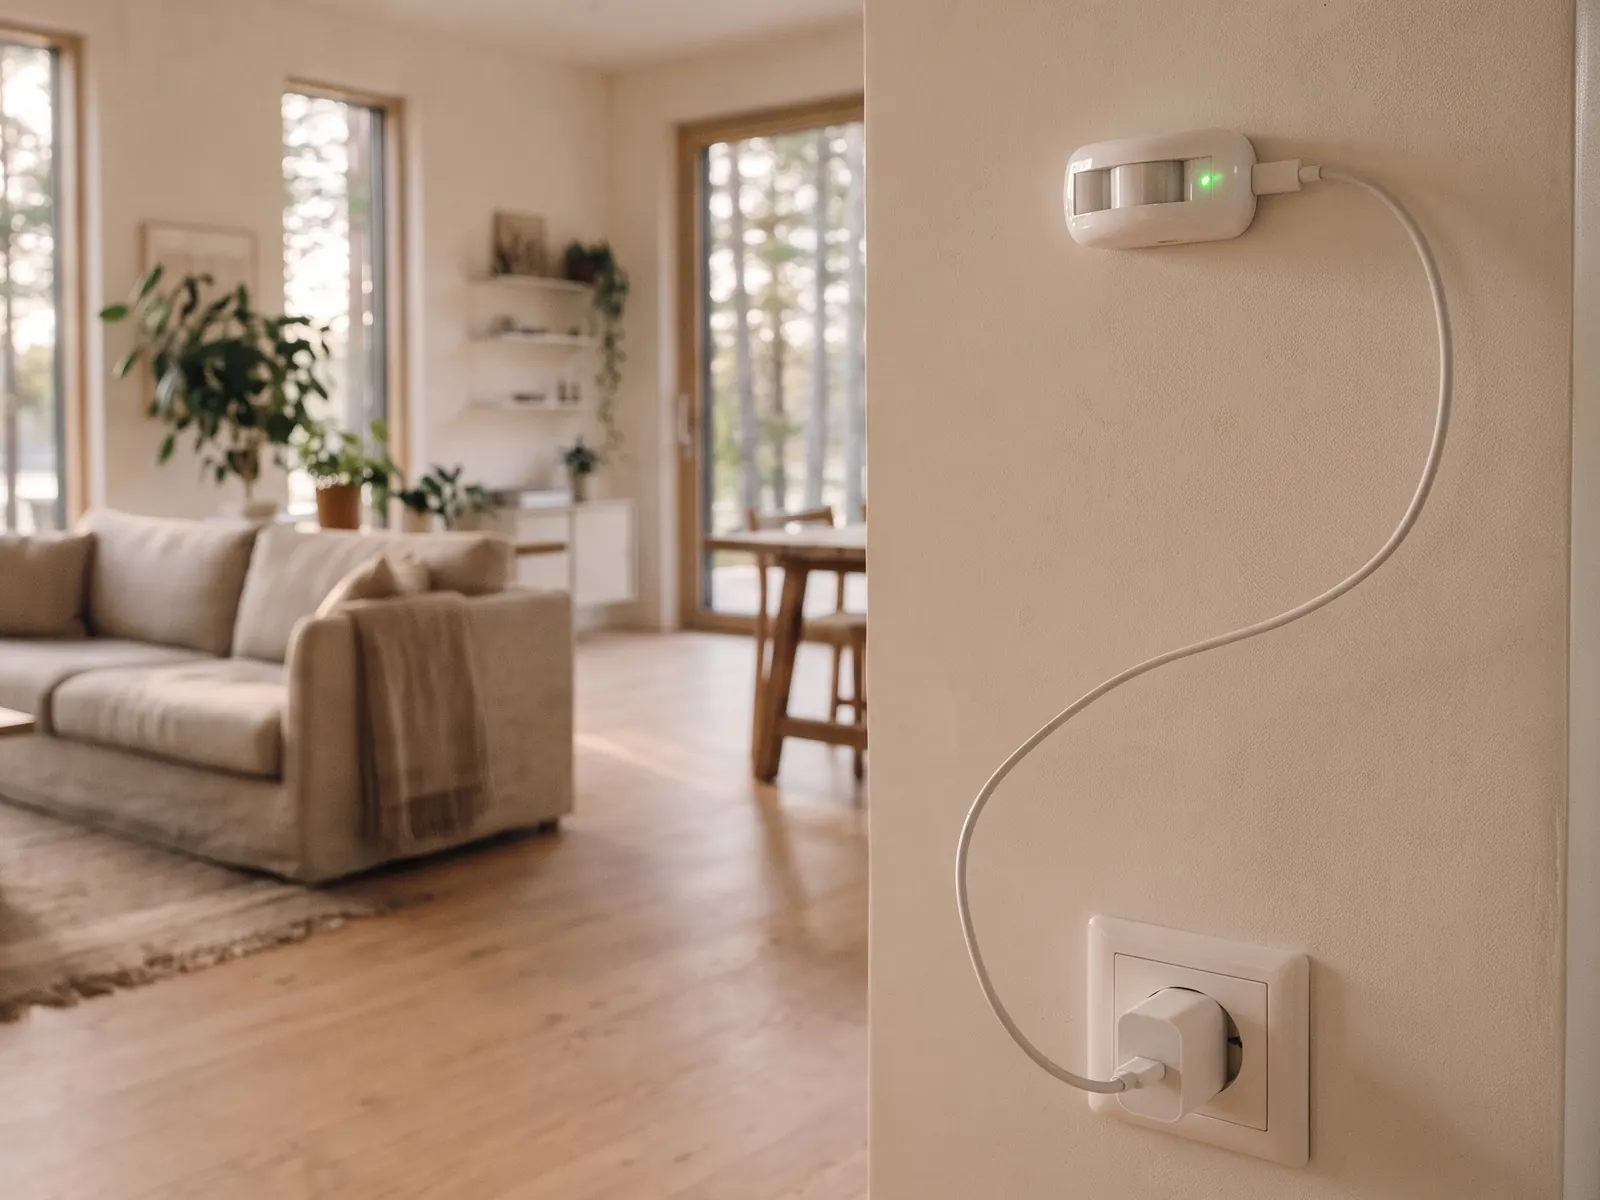
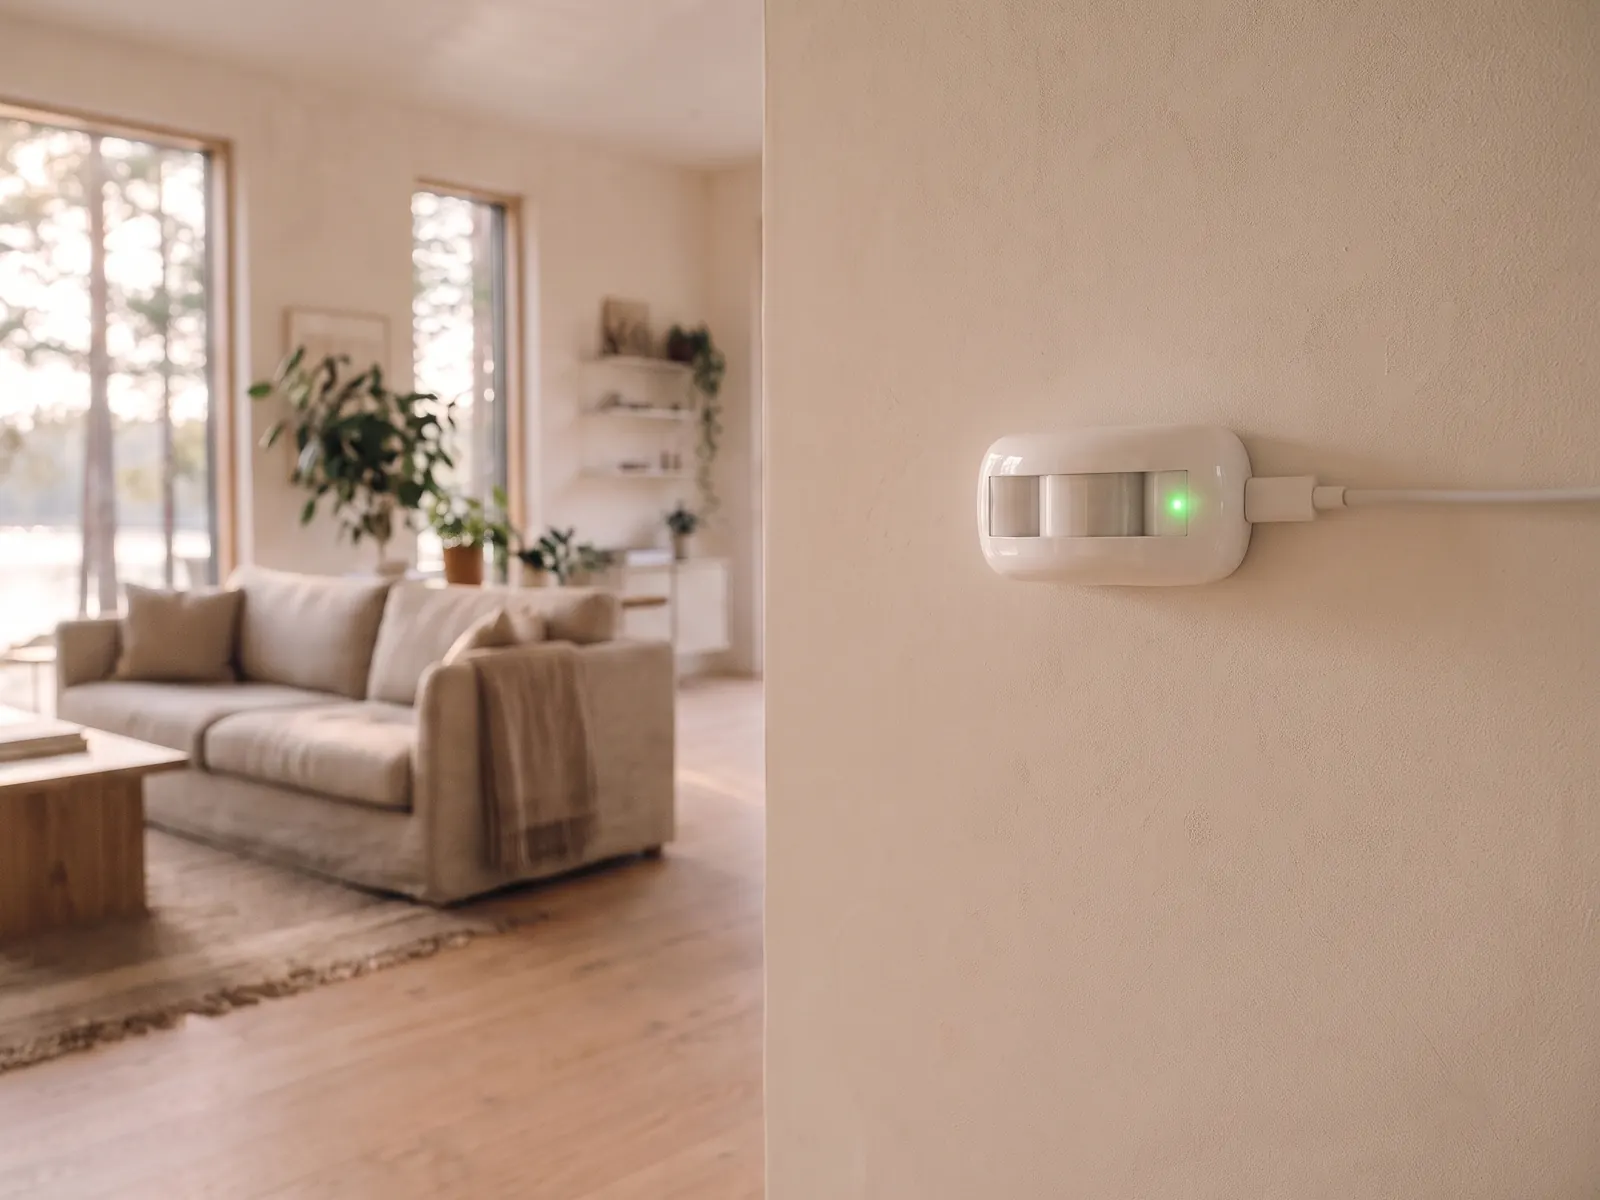
feat(web): Ferienhaus-Hero ohne Steckdose, Sensor mittiger, Kabel dezent

diff --git a/ferienhaus/index.html b/ferienhaus/index.html
@@ -269,7 +269,7 @@
       <picture>
         <source srcset="/ferienhaus-hero.webp" type="image/webp" />
         <img src="/ferienhaus-hero.jpg" width="1600" height="1200"
-             alt="Helles Wohnzimmer eines Ferienhauses mit Blick auf Kiefern. Im Vordergrund hängt der weiße movero-sensor an der Wand, ein weißes Kabel führt zur Steckdose." />
+             alt="Helles Wohnzimmer eines Ferienhauses mit Blick auf einen See. Im Vordergrund ist der movero-sensor an der Wand zu sehen." />
       </picture>
       <div class="status" aria-hidden="true"><i></i><div><b>Haus am See · Wächter aktiv</b><span>Keine Bewegung seit der Abreise</span></div></div>
     </figure>
